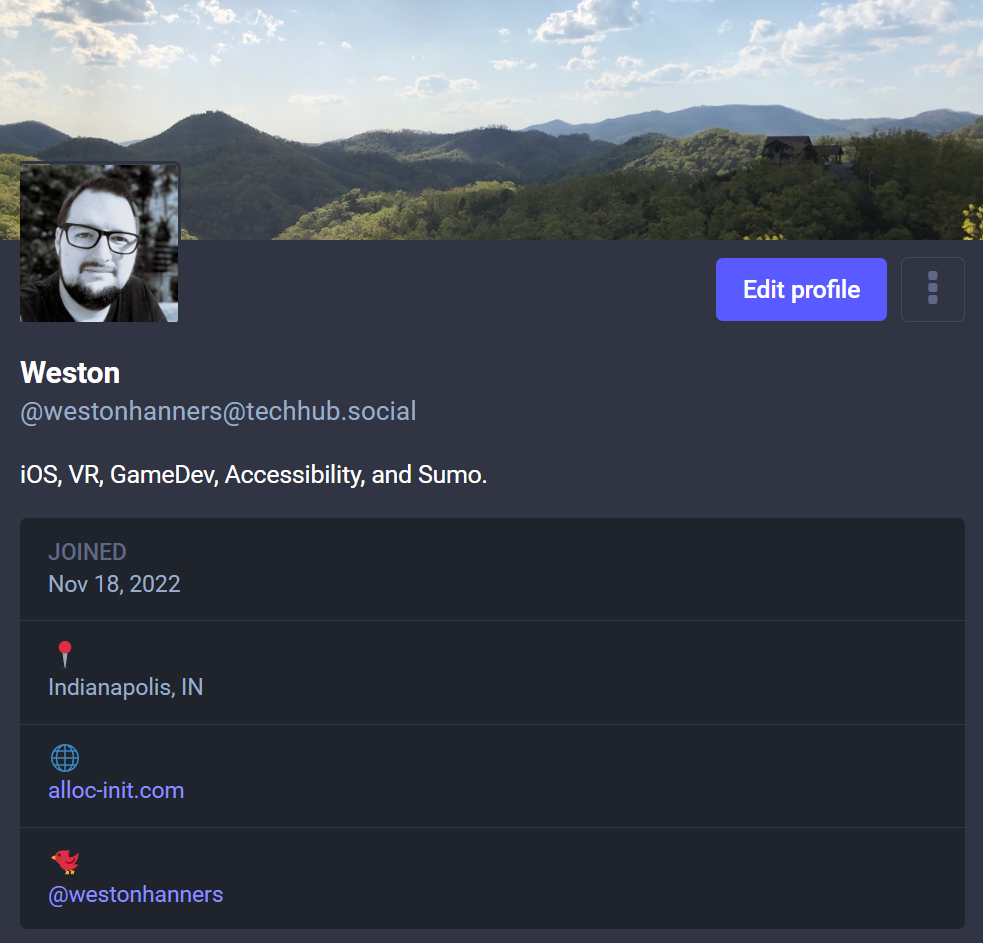
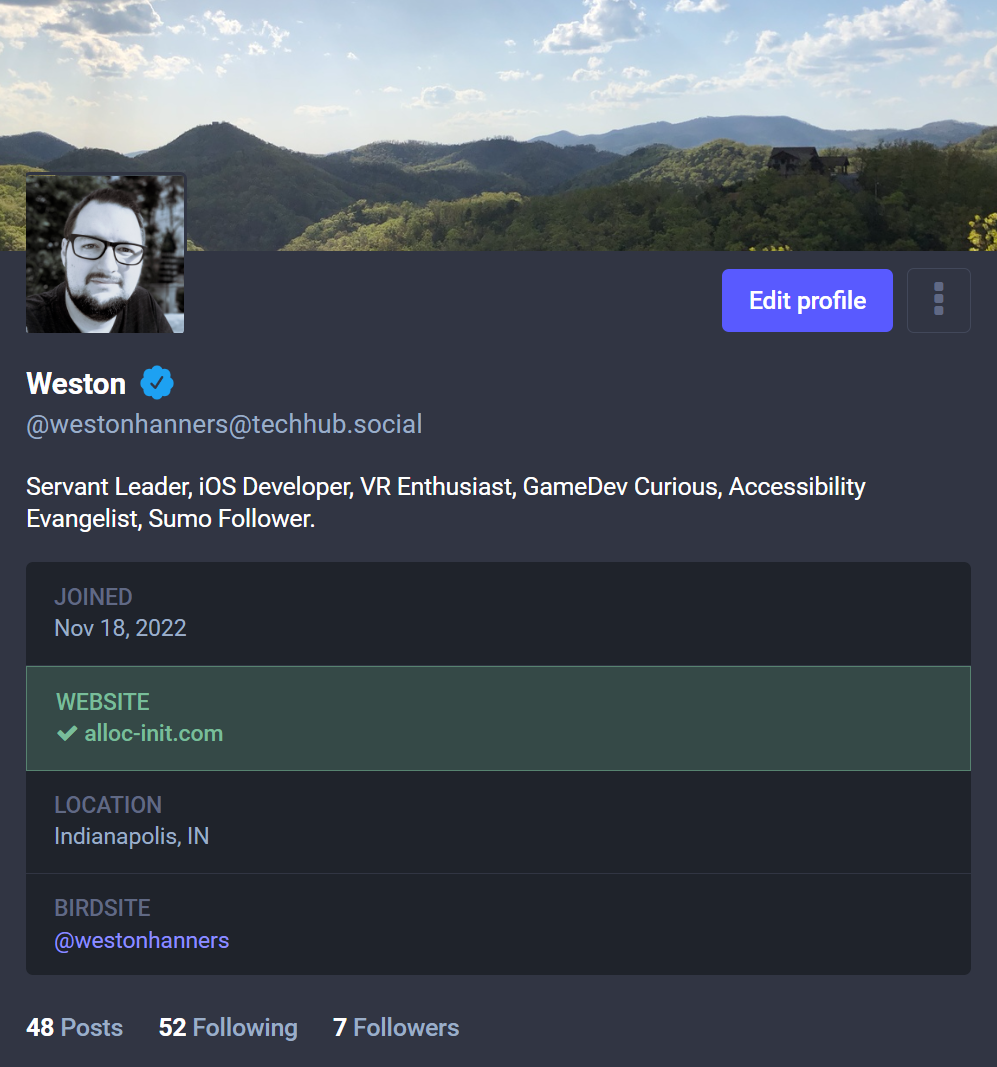
Updated some mastodon content

diff --git a/_posts/2022-11-22-mastodon.md b/_posts/2022-11-22-mastodon.md
@@ -56,9 +56,12 @@ move to a different hub.
 ## What client should I use on mobile?
 
 I've tried a handful of iOS clients, but so far my favorite on iPhone is
-[Metatext][5] but a close second is [Toot!][4]. My biggest issue with Toot! is I
-think it over did it a tiny bit with the animations. There is an official client
-but I found it a bit sluggish and buggy.
+[Metatext][5], It has a great UX and feels snappy. 
+
+A close second is [Toot!][4]. My biggest issue with Toot! is I think it over did
+it a tiny bit with the animations. 
+
+There is an official client but I found it a bit sluggish and buggy.
 
 ## How do I find my friends?
 
@@ -85,6 +88,16 @@ I think they also need to make it easier to follow people from a web link.
 Right now you have to copy the users profile link and paste it in your own hub
 to follow, it's weird and unnecesary, I hope they figure it out soon.
 
+If you have a website, you can easily get "verified" by adding a backlink to 
+your mastodon profile with `rel="me"` attribute set. Then add a "website" 
+metadata property on your profile with your website linked and it will get a 
+green checkmark. This tells your followers that you own the domain, and for most
+reasons, this is nearly as good as twitter verification. More details 
+[here][10].
+
+There is a weird meme on Mastodon where no one refers to Twitter by name, like 
+It's Lord Voldemort or something. If you see "birdsite" that means Twitter.
+
 Oh yea, follow [Feditips][6]. This account posts frequent tips and tricks and
 has been a great resource for getting started.
 
@@ -107,3 +120,4 @@ I think I am content to stick with Mastodon.
 [7]: https://fedifinder.glitch.me/
 [8]: /images/mastodon-profile.png
 [9]: https://www.hivesocial.app/
+[10]: https://docs.joinmastodon.org/user/profile/#verification
